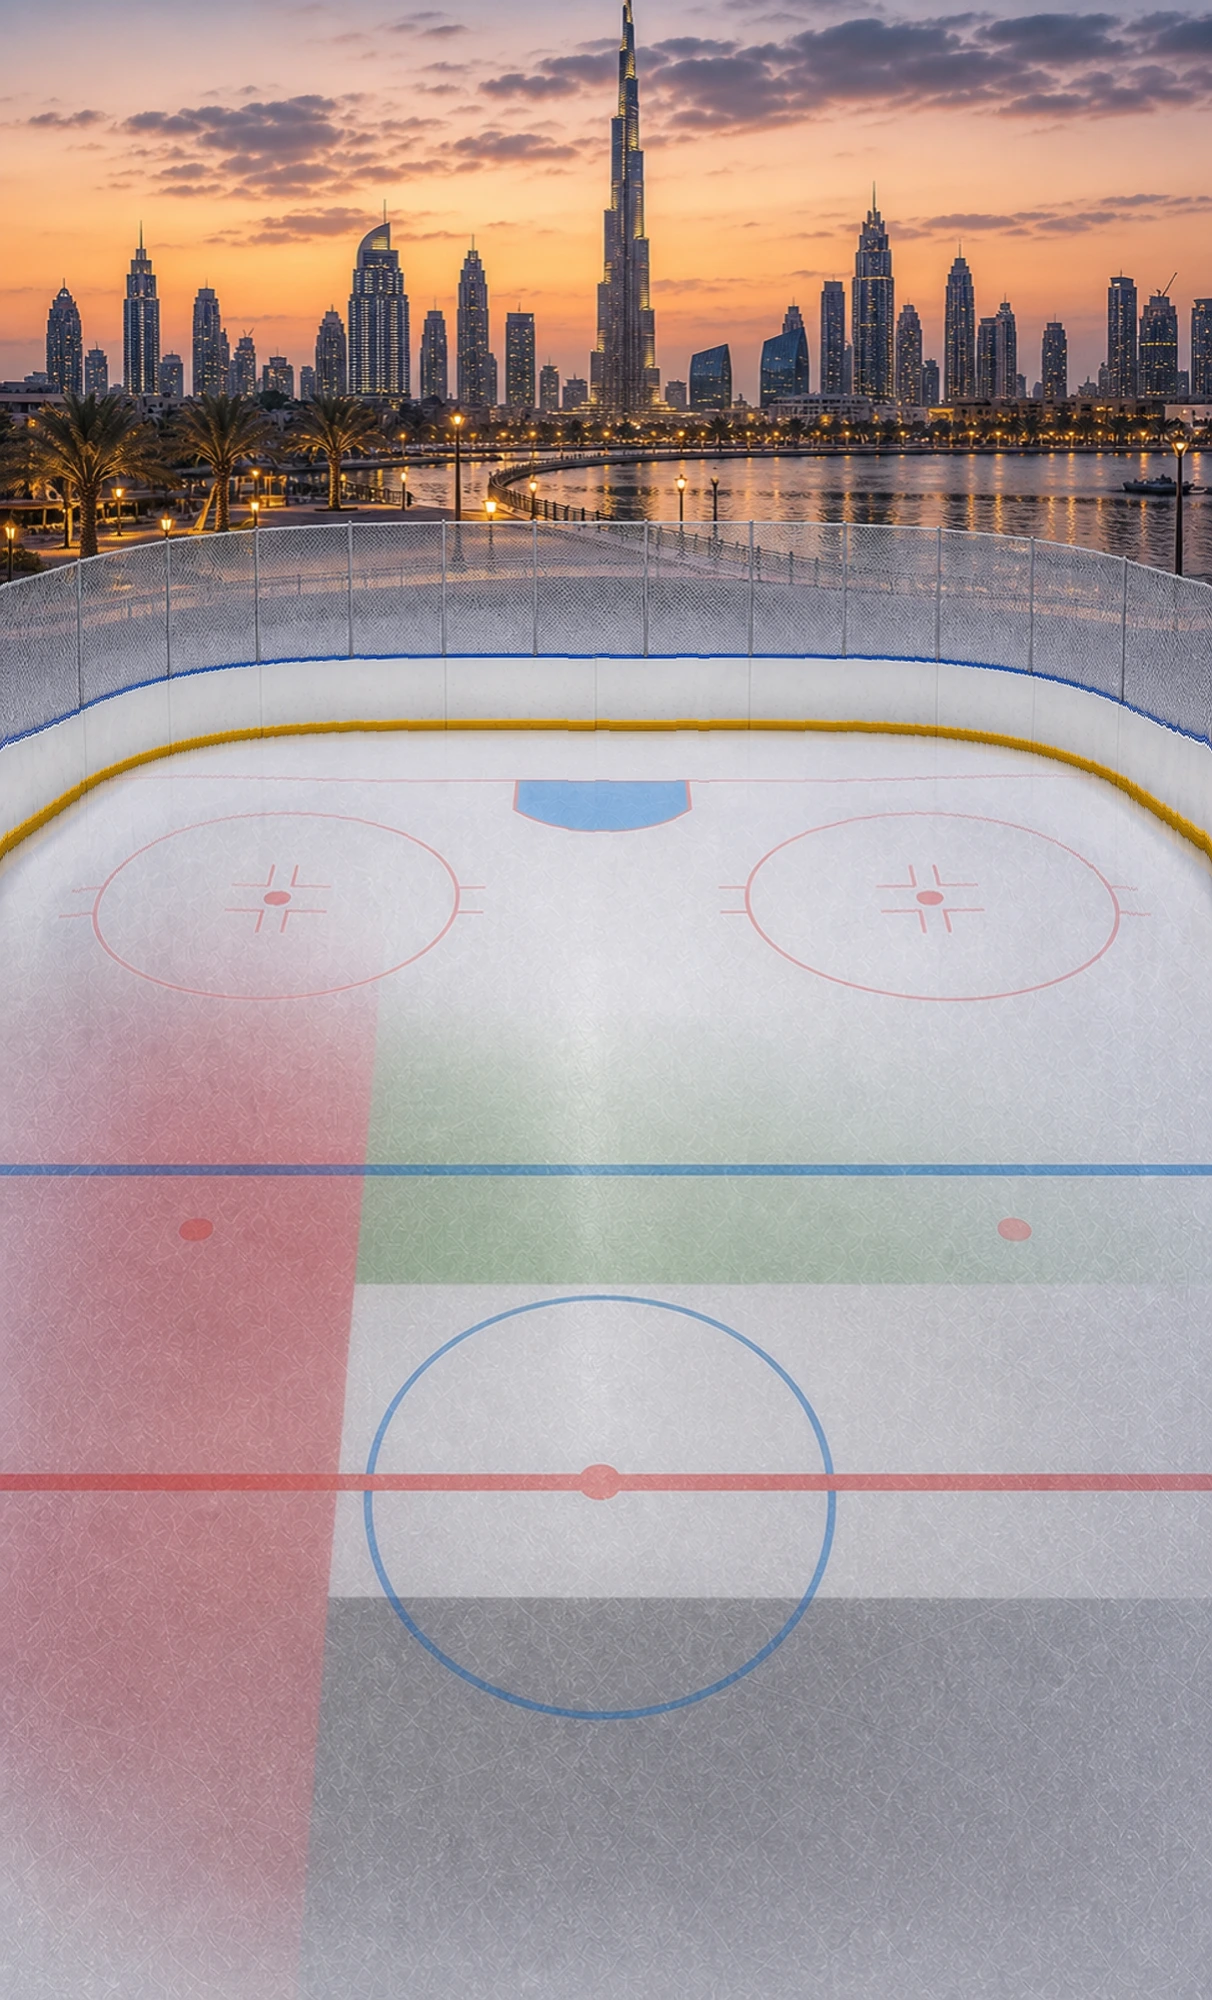
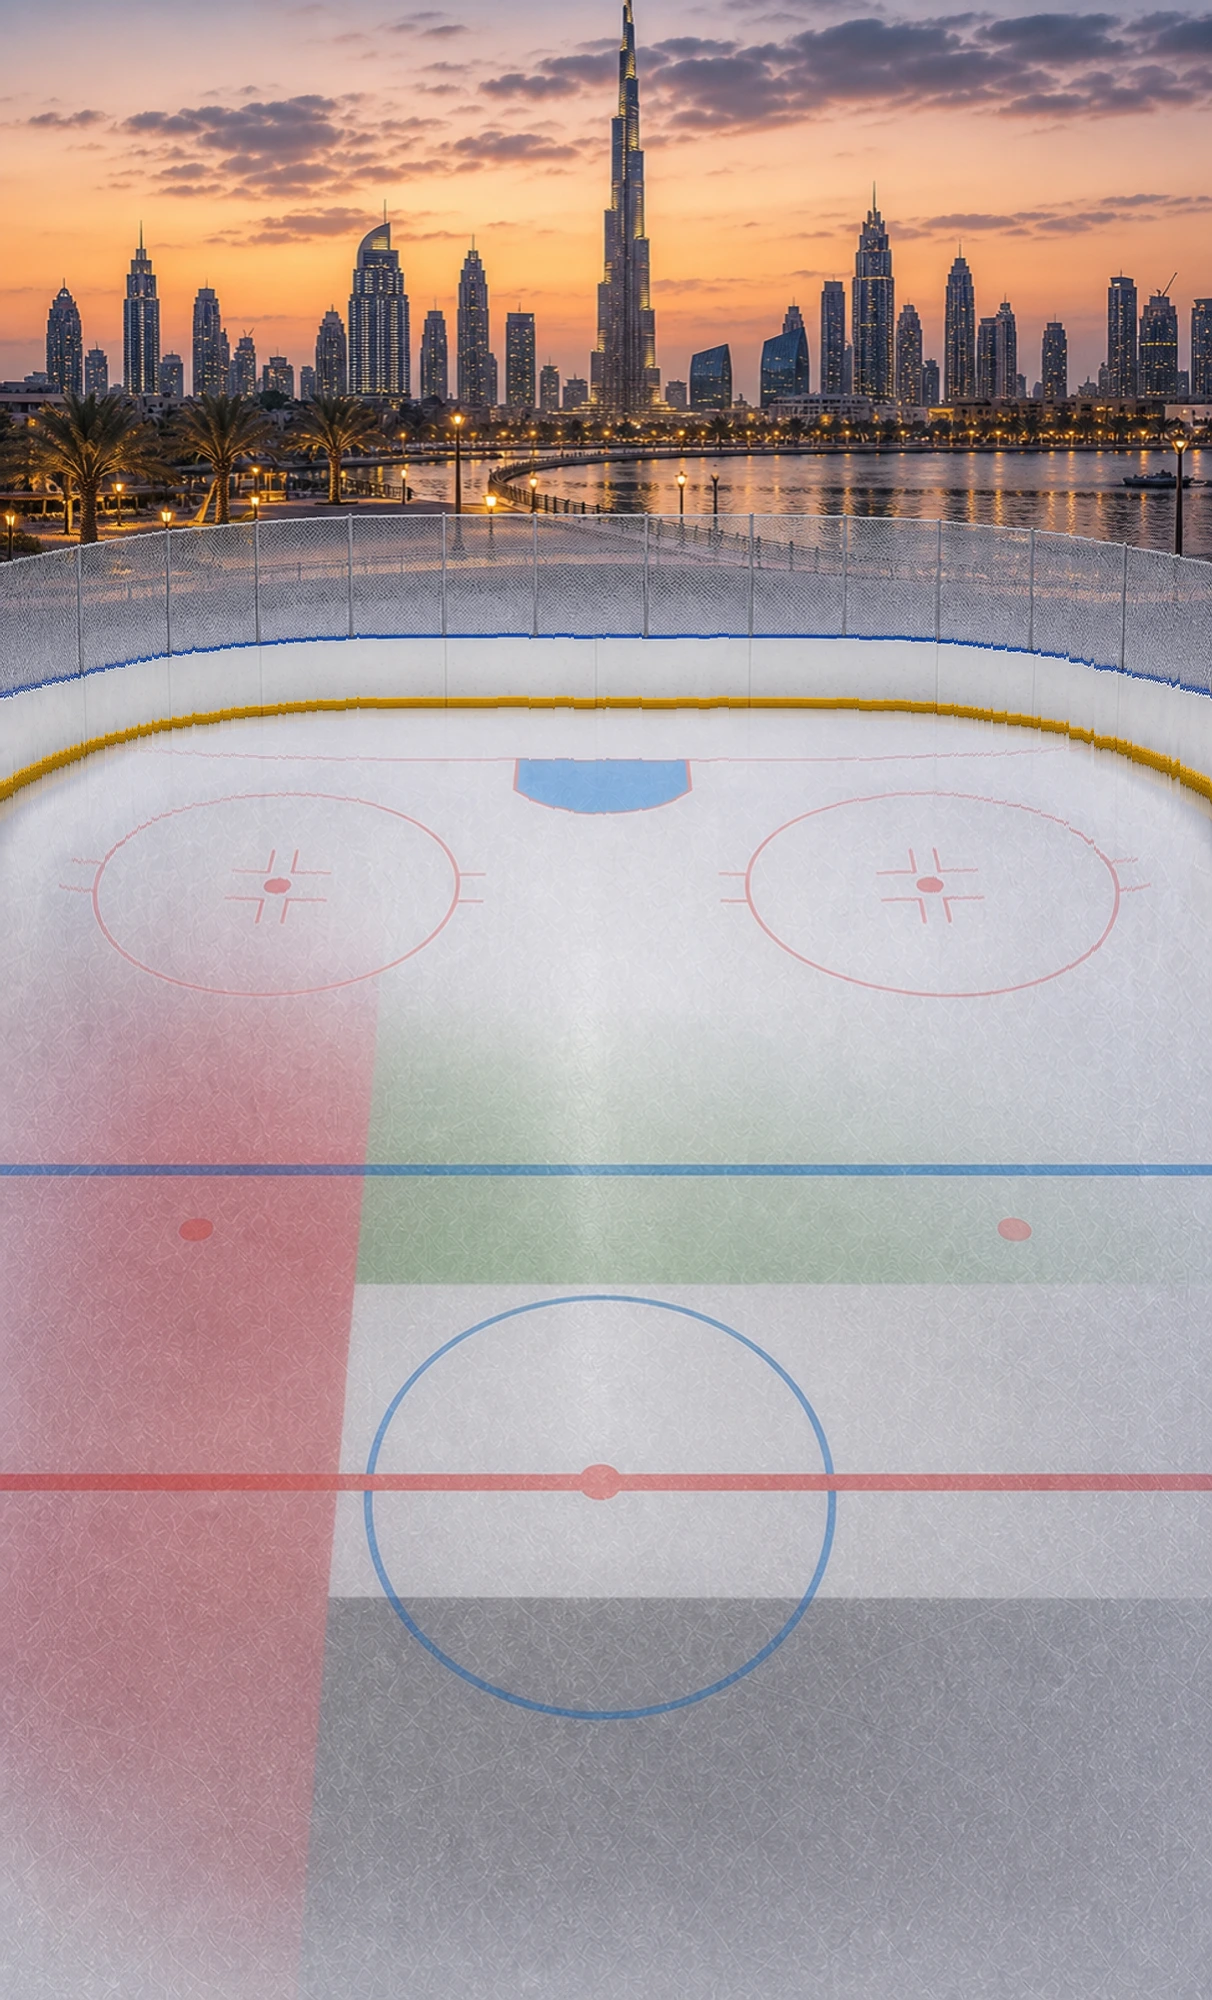
fix(bonus-games): match World Tour board geometry

diff --git a/packages/web/src/game/bonusGameAssets.test.ts b/packages/web/src/game/bonusGameAssets.test.ts
@@ -145,11 +145,11 @@ describe('bonus game runtime assets', () => {
     expect(script).not.toContain('amateur-daily-court.webp');
   });
 
-  it('rebuilds World Tour arenas from each complete generated location without a second ice layer', () => {
+  it('rebuilds World Tour locations against the canonical daily-court board geometry', () => {
     const script = readFileSync(path.resolve('scripts/build-world-tour-assets.mjs'), 'utf8');
 
     expect(script).toContain('assets/bonus-games/world-tour/generated-arenas');
-    expect(script).not.toContain('amateur-daily-court.webp');
+    expect(script).toContain('amateur-daily-court.webp');
     expect(script).not.toContain('flagColourField');
     expect(script).not.toContain('createCanonicalMarkingLayer');
   });
@@ -367,18 +367,21 @@ describe('bonus game runtime assets', () => {
     }
   });
 
-  it('keeps every World Tour rink centred with both goal-travel edges on Y=779', async () => {
+  it('matches every World Tour board to the daily-game court across the goal travel corridor', async () => {
+    const dailyCourtPath = path.resolve('public/sprites/amateur-daily-court.webp');
+    const sampleXs = [82, 186, 300, 606, 912, 1026, 1130];
+    const dailyBoard = await Promise.all(sampleXs.map((x) => findKickplateY(dailyCourtPath, x)));
+
     for (const slug of WORLD_TOUR_SLUGS) {
       const filePath = path.resolve('public/bonus-games/world-tour/arenas', `${slug}.webp`);
-      const samples = await Promise.all(
-        [89, 150, 300, 912, 1062, 1123].map((x) => findKickplateY(filePath, x)),
-      );
-      const [leftGoalEdge, leftOuter, leftInner, rightInner, rightOuter, rightGoalEdge] = samples;
+      const board = await Promise.all(sampleXs.map((x) => findKickplateY(filePath, x)));
 
-      expect(Math.abs(leftGoalEdge! - 779), `${slug}: left goal edge`).toBeLessThanOrEqual(4);
-      expect(Math.abs(rightGoalEdge! - 779), `${slug}: right goal edge`).toBeLessThanOrEqual(4);
-      expect(Math.abs(leftOuter! - rightOuter!), `${slug}: outer symmetry`).toBeLessThanOrEqual(4);
-      expect(Math.abs(leftInner! - rightInner!), `${slug}: inner symmetry`).toBeLessThanOrEqual(4);
+      for (let index = 0; index < sampleXs.length; index += 1) {
+        expect(
+          Math.abs(board[index]! - dailyBoard[index]!),
+          `${slug}: board at X=${sampleXs[index]}`,
+        ).toBeLessThanOrEqual(4);
+      }
     }
   });
 

diff --git a/packages/web/src/screens/BonusGamePlayScreen.test.tsx b/packages/web/src/screens/BonusGamePlayScreen.test.tsx
@@ -276,7 +276,7 @@ describe('BonusGamePlayScreen', () => {
     expect(screen.getByRole('heading', { name: 'Первая квалификация' })).toBeInTheDocument();
     expect(screen.getByRole('img', { name: 'Локация «Пляж» и её вратарь' })).toHaveAttribute(
       'src',
-      '/bonus-games/location-cards/beach.webp?v=20260827-generated-arenas-v3',
+      '/bonus-games/location-cards/beach.webp?v=20260828-world-tour-daily-board-v4',
     );
     const qualification = screen.getByText('20 голов из 50 бросков');
     expect(qualification).toBeInTheDocument();
@@ -329,7 +329,7 @@ describe('BonusGamePlayScreen', () => {
 
     expect(screen.getByTestId('bonus-rink-background')).toHaveAttribute(
       'src',
-      '/bonus-games/arenas/beach.webp?v=20260827-generated-arenas-v3',
+      '/bonus-games/arenas/beach.webp?v=20260828-world-tour-daily-board-v4',
     );
     const props = playViewProbe.mock.calls.at(-1)?.[0] as Record<string, unknown>;
     expect(props).toMatchObject({
@@ -339,7 +339,7 @@ describe('BonusGamePlayScreen', () => {
       goals: 18,
       shotsTotal: 25,
       stickEffects: STICK_NEUTRAL,
-      longCourtBackground: '/bonus-games/arenas/beach.webp?v=20260827-generated-arenas-v3',
+      longCourtBackground: '/bonus-games/arenas/beach.webp?v=20260828-world-tour-daily-board-v4',
       initialSceneElapsedMs: 6_000,
       initialShooterElapsedMs: 4_800,
       goalieOptions: {
@@ -363,7 +363,7 @@ describe('BonusGamePlayScreen', () => {
         goalFrequency: 0.5,
       },
       preloadAssets: [
-        '/bonus-games/arenas/beach.webp?v=20260827-generated-arenas-v3',
+        '/bonus-games/arenas/beach.webp?v=20260828-world-tour-daily-board-v4',
         '/bonus-games/goalkeepers/beach-ready.webp',
         '/bonus-games/goalkeepers/beach-save.webp',
       ],

diff --git a/packages/web/src/screens/BonusGamesScreen.test.tsx b/packages/web/src/screens/BonusGamesScreen.test.tsx
@@ -452,7 +452,7 @@ describe('BonusGamesScreen', () => {
     const artwork = await screen.findByAltText('Площадка «Пляж»');
     expect(artwork).toHaveAttribute(
       'src',
-      '/bonus-games/arenas/beach.webp?v=20260827-generated-arenas-v3',
+      '/bonus-games/arenas/beach.webp?v=20260828-world-tour-daily-board-v4',
     );
     expect(artwork).toHaveStyle({ objectPosition: 'center top' });
     expect(artwork.parentElement).toHaveClass('bonus-game-card__artwork-frame');
@@ -595,7 +595,7 @@ describe('BonusGamesScreen', () => {
 
     expect(await screen.findByAltText('Площадка «Пляж»')).toHaveAttribute(
       'src',
-      '/bonus-games/arenas/beach.webp?v=20260827-generated-arenas-v3',
+      '/bonus-games/arenas/beach.webp?v=20260828-world-tour-daily-board-v4',
     );
   });
 

diff --git a/packages/web/src/game/bonusGameArtwork.ts b/packages/web/src/game/bonusGameArtwork.ts
@@ -1,4 +1,4 @@
-const BONUS_GAME_ARTWORK_VERSION = '20260827-generated-arenas-v3';
+const BONUS_GAME_ARTWORK_VERSION = '20260828-world-tour-daily-board-v4';
 
 export function versionBonusGameArtwork(url: string): string {
   if (!url.startsWith('/bonus-games/') || url.includes('?')) return url;
